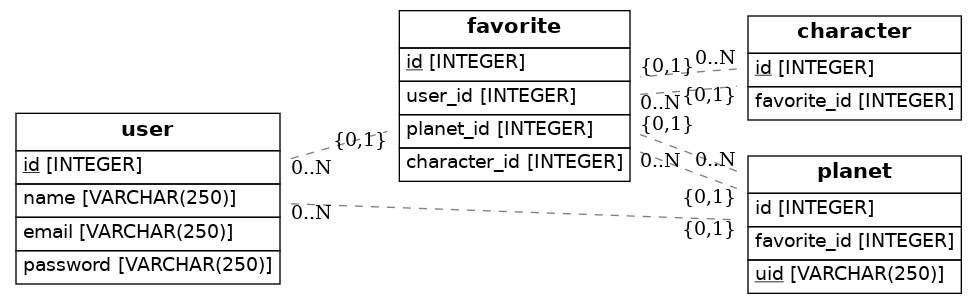
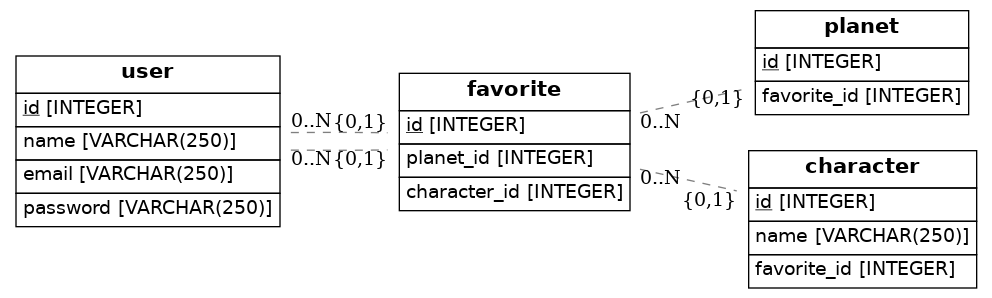
casi listo

diff --git a/src/models.py b/src/models.py
@@ -14,23 +14,29 @@ class User(Base):
     name = Column(String(250), nullable=False)
     email = Column(String(250), nullable=False)
     password = Column(String(250), nullable=False)
+    favorite = relationship("Favorite", back_populates="parent")
 
 class Favorite(Base):
     __tablename__ = 'favorite'
-    user_id = Column(Integer, ForeignKey("user.id"))
-    user = relationship(User)
+    id = Column(Integer, primary_key=True)
+    user = relationship("user", back_populates="children")
+    planet_id = Column(Integer, ForeignKey("user.id"))
+    planet = relationship("favorite", back_populates="children")
+    character_id = Column(Integer, ForeignKey("user.id"))
+    character = relationship("favorite", back_populates="children")
 
 class Planet(Base):
     __tablename__ = 'planet'
-    id = Column(Integer, ForeignKey("user.id"))
-    user =Column(String(250), nullable=False)
-    favorite = relationship("planet", backref="favorite")
+    id = Column(Integer, primary_key=True)
+    favorite_id = Column(Integer, ForeignKey("favorite.id"))
+    favorite = relationship("favorite", back_populates="children")
 
 class Character(Base):
     __tablename__ = 'character'
-    id = Column(Integer, ForeignKey("user.id"))
-    user= Column(String(250), nullable=False)
-    favorite = relationship("character", backref="favorite")
+    id = Column(Integer, primary_key=True)
+    name = Column(String(250), nullable=False)
+    favorite_id = Column(Integer, ForeignKey("favorite.id"))
+    favorite = relationship("favorite", back_populates="children")
 
 ## Draw from SQLAlchemy base
 render_er(Base, 'diagram.png')
